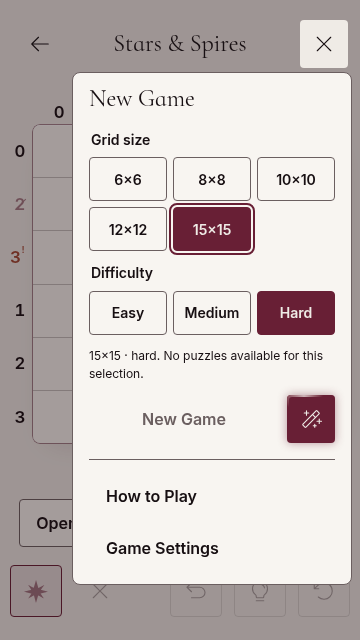
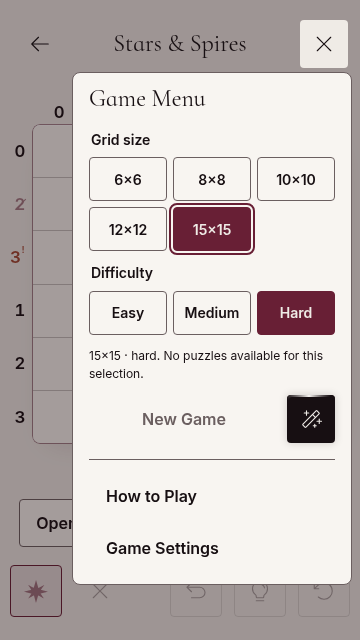
Match Surprise Me to primary button and rename Game Menu heading

Changed region(s): [[0.2444, 0.125, 0.55, 0.1875], [0.7944, 0.5938, 0.9472, 0.7188]]

diff --git a/src/projects/grim-glimmer/game-menu-content.css b/src/projects/grim-glimmer/game-menu-content.css
@@ -54,8 +54,8 @@
   padding: 2px;
   border-radius: var(--nl-radius-md);
   overflow: hidden;
-  background: var(--nl-color-accent);
-  box-shadow: 0 0 10px color-mix(in srgb, var(--nl-color-accent) 45%, transparent);
+  background: var(--nl-button-primary-background, var(--nl-color-accent));
+  box-shadow: 0 0 8px color-mix(in srgb, var(--nl-color-text) 18%, transparent);
 }
 .nl-grim-glimmer-menu-content__surprise-shell::before {
   content: '';
@@ -65,9 +65,9 @@
   background: conic-gradient(
     from 0deg,
     transparent 0deg 190deg,
-    var(--nl-color-accent) 240deg,
-    color-mix(in srgb, var(--nl-color-accent) 30%, var(--nl-color-surface)) 285deg,
-    var(--nl-color-accent) 330deg,
+    var(--nl-color-text) 240deg,
+    var(--nl-color-surface) 285deg,
+    var(--nl-color-text) 330deg,
     transparent 360deg
   );
   animation: nl-game-menu-surprise-glow 3s linear infinite;
@@ -80,7 +80,7 @@
   min-height: 44px;
   border: 0;
   border-radius: calc(var(--nl-radius-md) - 1px);
-  background: var(--nl-color-accent);
+  background: var(--nl-button-primary-background, var(--nl-color-accent));
   color: var(--nl-color-on-accent);
 }
 .nl-grim-glimmer-menu-content__surprise .nl-icon-button__icon {

diff --git a/tests/game-menu-content.test.ts b/tests/game-menu-content.test.ts
@@ -171,6 +171,7 @@ describe('required Game Menu selections and independent Surprise Me', () => {
   it('keeps meaningful accessible groups and real navigation callbacks, without random body copy', () => {
     const s = setup();
     s.menu.open();
+    expect(s.content.element.querySelector('h2')?.textContent).toBe('Game Menu');
     expect(s.content.element.querySelectorAll('[role=radiogroup]')).toHaveLength(2);
     expect(s.content.element.querySelectorAll('input:checked')).toHaveLength(2);
     expect(s.content.element.textContent).not.toContain('No selection means random');

diff --git a/src/projects/grim-glimmer/game-menu-content.ts b/src/projects/grim-glimmer/game-menu-content.ts
@@ -49,8 +49,8 @@ export function createGameMenuContent(options: GameMenuContentOptions): GameMenu
   root.className = 'nl-grim-glimmer-menu-content';
   const section = document.createElement('section');
   const heading = document.createElement('h2');
-  heading.id = uniqueId('nl-new-game');
-  heading.textContent = 'New Game';
+  heading.id = uniqueId('nl-game-menu-heading');
+  heading.textContent = 'Game Menu';
   section.setAttribute('aria-labelledby', heading.id);
   const groups: {
     element: HTMLElement;

diff --git a/docs/game-menu-evidence/README.md b/docs/game-menu-evidence/README.md
@@ -1,6 +1,6 @@
 # Feature Expansion Game Menu review
 
-Owner revision 2026-11-13, library #66 / PR #71. Before images are the first PR revision `8d7538f` (optional selections); after images implement required selections and a separate Surprise Me action. Existing V4 reference stories remain unchanged; this round is grouped under **Projects / Grim & Glimmer / Feature Expansion / GameMenu**.
+Owner revision 2026-11-13, library #66 / PR #71. Before images are PR revision `e09f0d9` (accent Surprise Me and New Game heading); after images use the Game Menu heading and a neutral Surprise Me button matching New Game. Existing V4 reference stories remain unchanged; this round is grouped under **Projects / Grim & Glimmer / Feature Expansion / GameMenu**.
 
 | Before: 390px light             | After: 390px light            |
 | ------------------------------- | ----------------------------- |
@@ -10,13 +10,13 @@ Owner revision 2026-11-13, library #66 / PR #71. Before images are the first PR 
 | ------------------------------ | ---------------------------- |
 | ![Before](before-dark-360.png) | ![After](after-dark-360.png) |
 
-The body paragraph above Grid size is removed. Required native radio groups retain selected size/difficulty. New Game occupies 80% of the action tracks and the Phosphor magic-wand Surprise Me button occupies 20% (after the gap). Its independent random request never replaces committed preferences. The button and rotating edge glow use the current mode's accent. Reduced motion and Animations OFF retain a static accent treatment.
+The body paragraph above Grid size is removed. Required native radio groups retain selected size/difficulty. New Game occupies 80% of the action tracks and the Phosphor magic-wand Surprise Me button occupies 20% (after the gap). Its independent random request never replaces committed preferences. Surprise Me matches New Game's primary background and foreground, with a soft neutral rotating edge shimmer instead of an accent glow. Selected options retain the accent color. Reduced motion and Animations OFF retain a static neutral treatment.
 
 [Glow recording (dark mode)](surprise-glow.webm). The animation rotates only the decorative edge, not the wand.
 
 The shared menu retains loading/unavailable states, pending-versus-committed rollback, focus return, Back, How to Play and Game Settings. Global preferences stay in main Settings. App integration and real selection remain gothic-cozy-puzzles#38; see the [API handoff](../game-menu-new-game.md).
 
-Browser verification: Chromium/Playwright tested 320×568, 360×640 and 390×844, light/dark, reduced/normal motion (12 combinations). It checked required selection, native arrow keys and Tab order, independent Surprise Me, retained committed preferences, exact 4:1 action tracks, theme accent, changing glow transforms, reduced-motion suppression, 44×44px targets, panel bounds and no horizontal overflow. Axe WCAG 2 A/AA and 2.1 AA checks found no violations in the tested panel. This is scoped automated evidence, not a complete accessibility certification.
+Browser verification: Chromium/Playwright tested 320×568, 360×640 and 390×844, light/dark, reduced/normal motion (12 combinations). It checked required selection, native arrow keys and Tab order, independent Surprise Me, retained committed preferences, exact 4:1 action tracks, matching primary-button colors, changing shimmer transforms, reduced-motion suppression, 44×44px targets, panel bounds and no horizontal overflow. Axe WCAG 2 A/AA and 2.1 AA checks found no violations in the tested panel. This is scoped automated evidence, not a complete accessibility certification.
 
 Seven additional stories were exercised: loading, unavailable, selected-pool unavailable with random still available, tall content, explicit reduced motion, open/close/reopen, and Start/Surprise interaction. `browser-results.json` contains the measured geometry and accessibility results.
 

diff --git a/docs/game-menu-new-game.md b/docs/game-menu-new-game.md
@@ -12,7 +12,7 @@ The planning previews live together under **Projects / Grim & Glimmer / Feature 
 
 **New Game** submits the draft selection through `onStart(selection)`. **Surprise Me** is a separate Phosphor magic-wand icon button calling `onSurprise()` with no filters. Its random request must not overwrite the selected or committed preferences. The app owns random puzzle choice, eligibility, repeat avoidance, save preservation and navigation.
 
-The button row uses 4:1 tracks (80/20 of the space after the gap), with a 48px minimum surprise track to retain a 44px target and border glow. The surprise button uses the active mode's accent and on-accent colors. A conic accent glow rotates through a transform-only animation around its edge; the icon itself remains still. Reduced motion, `animations: () => false`, disabled availability, and a hidden menu stop the animation. Reduced motion retains a static accent treatment.
+The button row uses 4:1 tracks (80/20 of the space after the gap), with a 48px minimum surprise track to retain a 44px target and border glow. The section is titled **Game Menu**. Surprise Me matches New Game using the same primary-button background and foreground hooks, leaving accent color for selected options. A soft neutral conic shimmer rotates through a transform-only animation around its edge; the icon itself remains still. Reduced motion, `animations: () => false`, disabled availability, and a hidden menu stop the animation. Reduced motion retains a static neutral treatment.
 
 ## Controlled lifecycle and availability
 

diff --git a/stories/projects/grim-glimmer-expansion/README.md b/stories/projects/grim-glimmer-expansion/README.md
@@ -4,4 +4,6 @@ Dedicated Storybook project group for the Player Experience, Progression & Puzzl
 
 GameMenu consumes the supported `createGameMenuContent`, existing floating overlay and consolidated header. Fixture actions are explicitly local; they never pretend to open a real app puzzle. Future expansion previews should use the same project group and public APIs.
 
-Owner revision 2026-11-13: mandatory size/difficulty selections; separate magic-wand Surprise Me action; accent rotating glow; 80/20 button row. This supersedes the first review's optional/random-filter behavior.
+Owner revision 2026-11-13: mandatory size/difficulty selections; separate magic-wand Surprise Me action; neutral rotating shimmer matching New Game; 80/20 button row. This supersedes the first review's optional/random-filter behavior.
+
+Latest visual revision: title the overlay Game Menu; match Surprise Me to the neutral primary New Game button, with a softer neutral edge animation so it does not compete with selected options.
